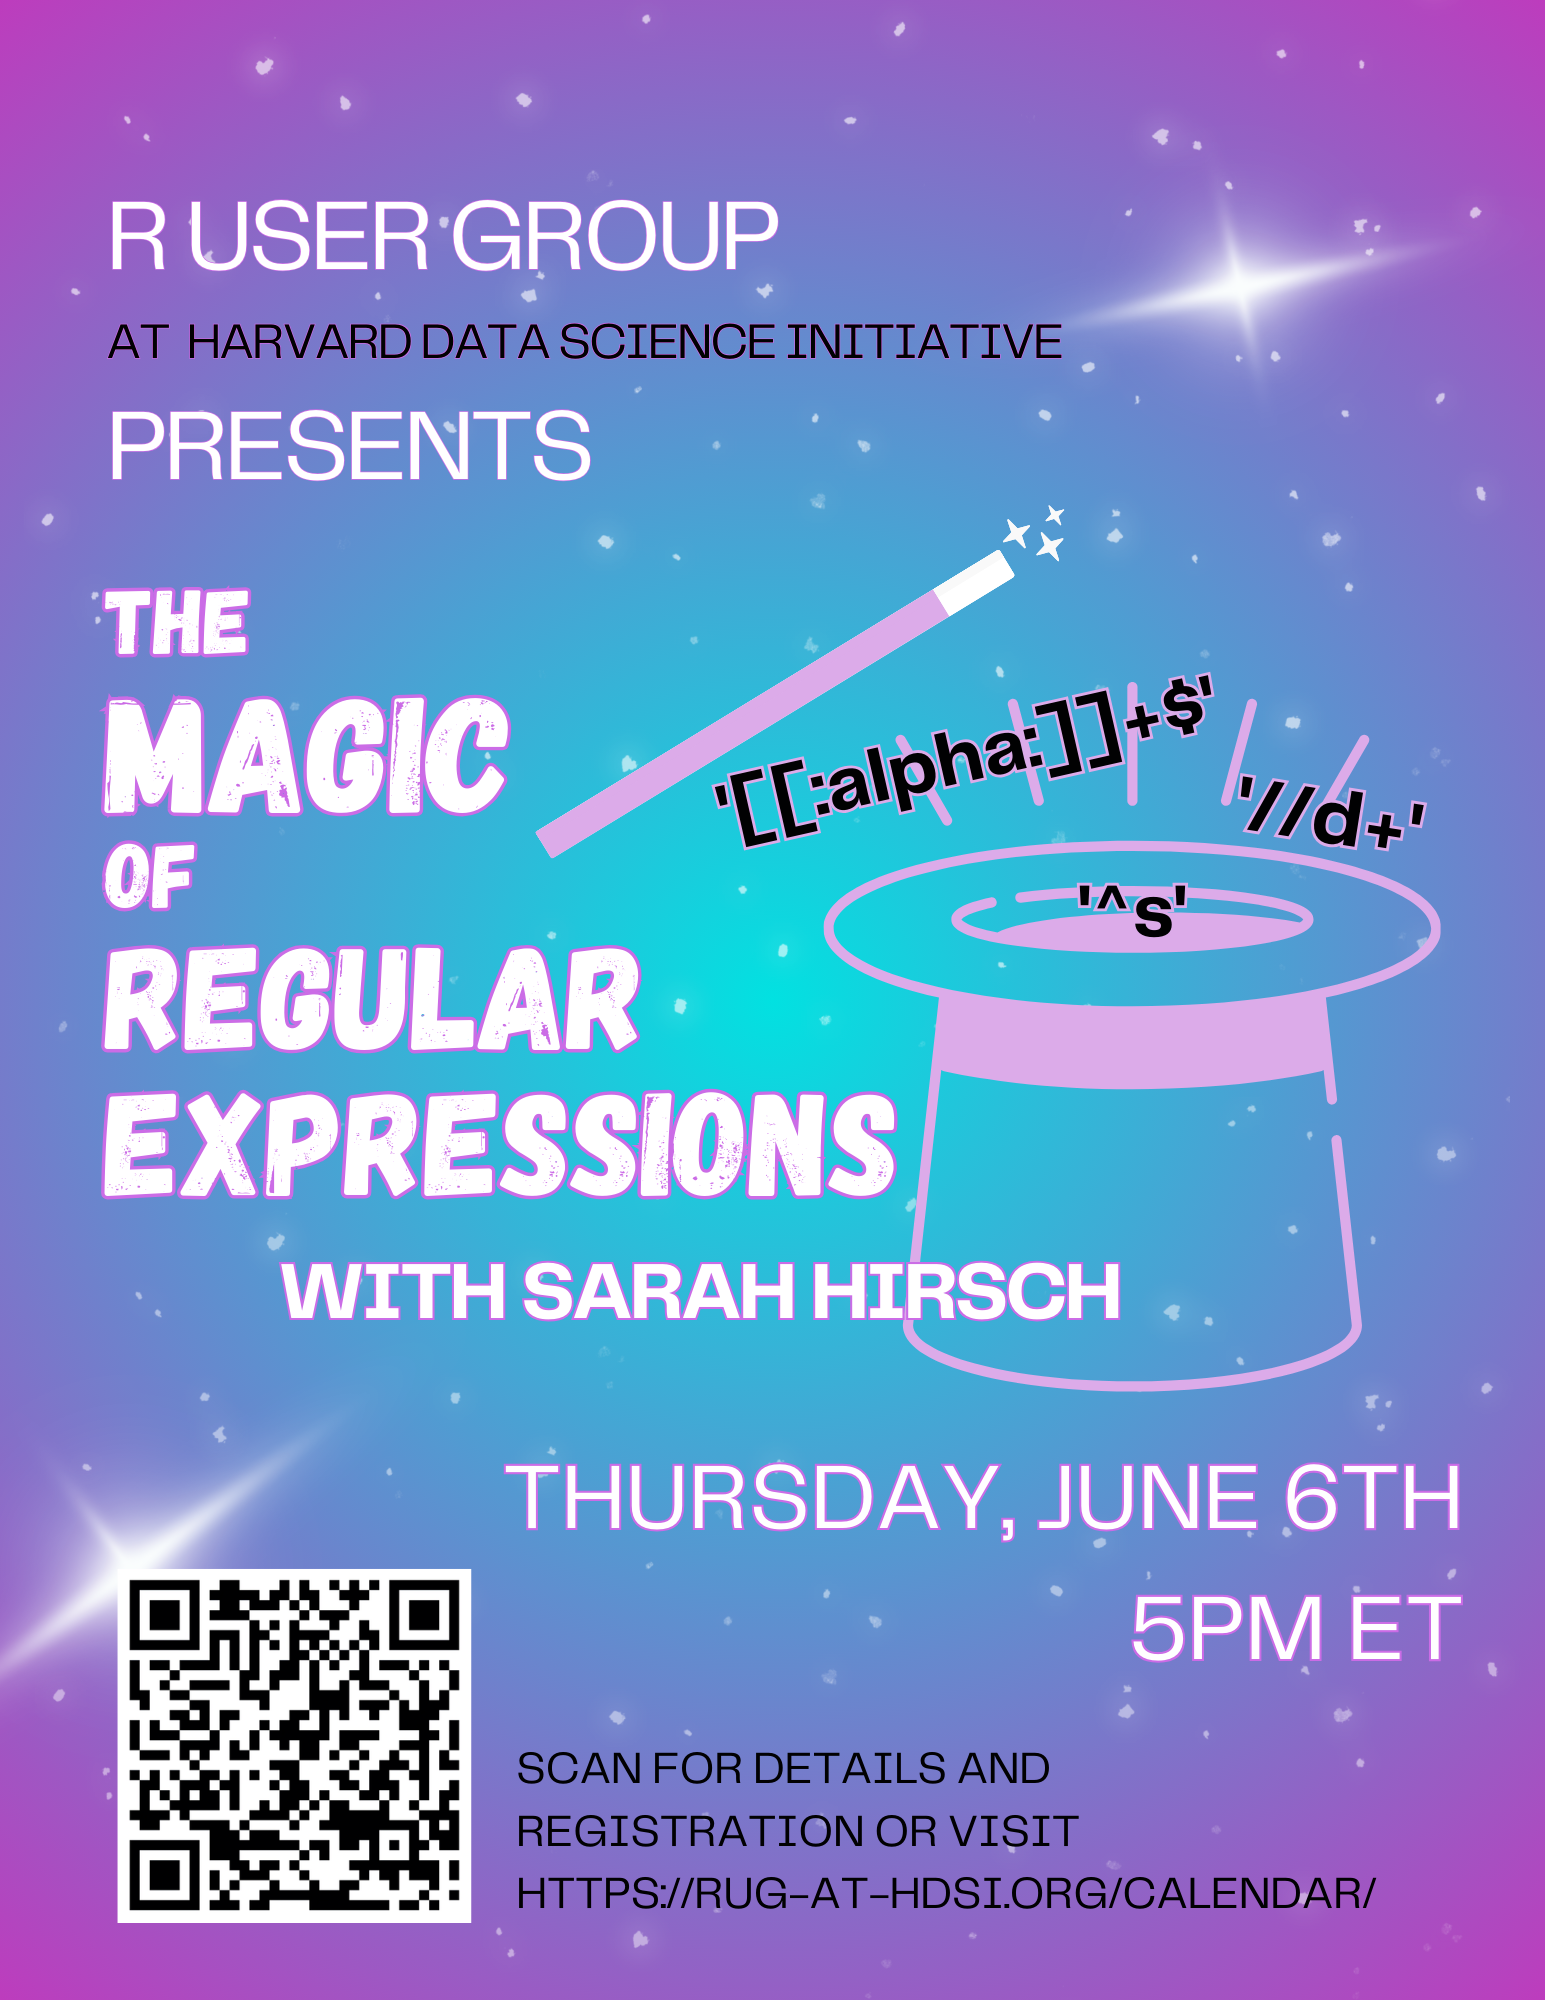
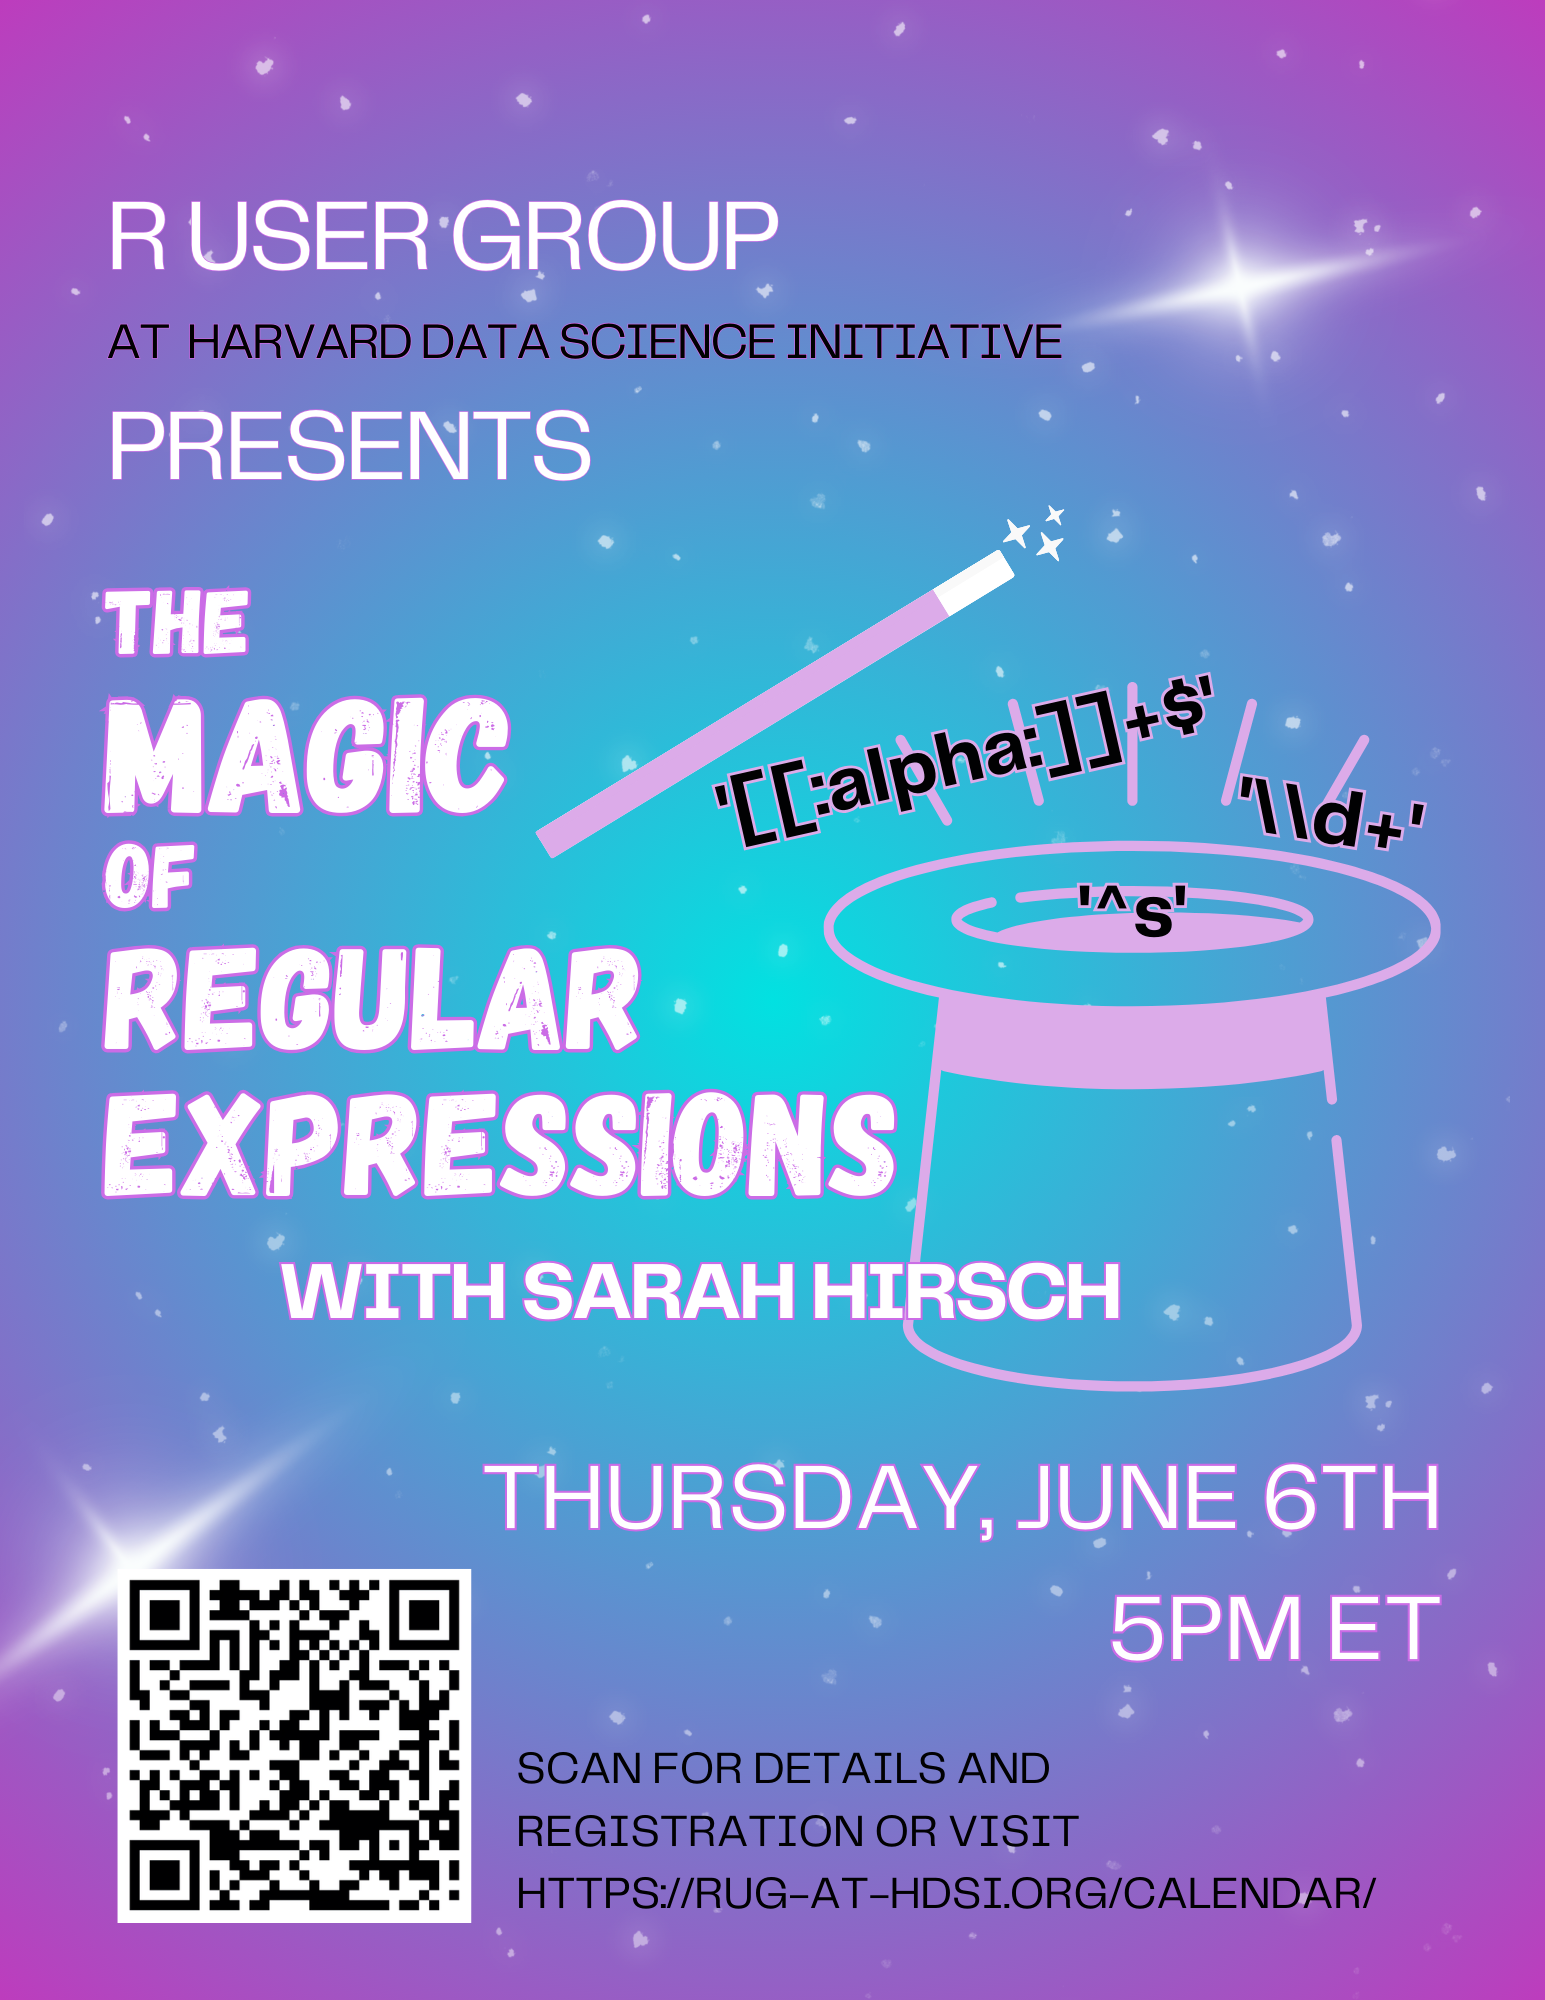
Update website for RUG talk

Changed region(s): [[0.3107, 0.713, 0.9631, 0.837], [0.8078, 0.372, 0.8699, 0.434]]

diff --git a/_upcoming_events/2024_05_06_regex_sarah_hirsch.md b/_upcoming_events/2024_05_06_regex_sarah_hirsch.md
@@ -1,5 +1,5 @@
 ---
-title: "Regex in R for Efficient Programming"
+title: "The Magic of Regular Expressions"
 event_date: "Thursday, June 6th, 2024"
 time: "4-5 PM Eastern Time"
 layout: single
@@ -17,4 +17,10 @@ speaker_blurb: |
 
 {{ page.blurb }}
 
+Want to learn more about how to use regular expressions in R?  Come learn with
+us how to use regular expressions to parse and clean text data. 
+
 {{ page.speaker_blurb}}
+
+Register on Zoom here: 
+<a href="{{ page.registration_link }}">{{ page.registration_link }}</a>
